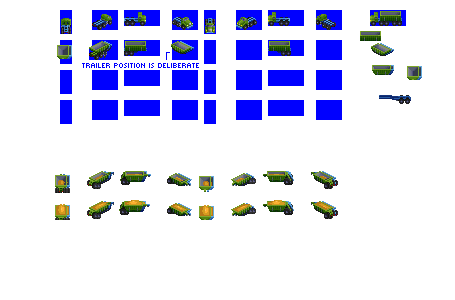
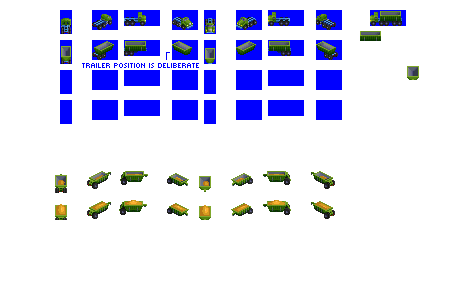
Codechange: WIP on Broadrock mining truck sprites

diff --git a/src/vehicles/broadrock.py b/src/vehicles/broadrock.py
@@ -14,14 +14,14 @@ consist = EngineConsist(id = 'broadrock',
 consist.add_unit(MiningHauler(consist = consist,
                         weight = 20,
                         capacity = 0,
-                        vehicle_length = 7,
+                        vehicle_length = 4,
                         visual_effect = 'VISUAL_EFFECT_DIESEL',
                         spriterow_num = 0))
 
 consist.add_unit(MiningHauler(consist = consist,
                         weight = 15,
                         capacity = 75,
-                        vehicle_length = 7,
+                        vehicle_length = 4,
                         spriterow_num = 1))
 
 consist.add_model_variant(intro_date=0,
